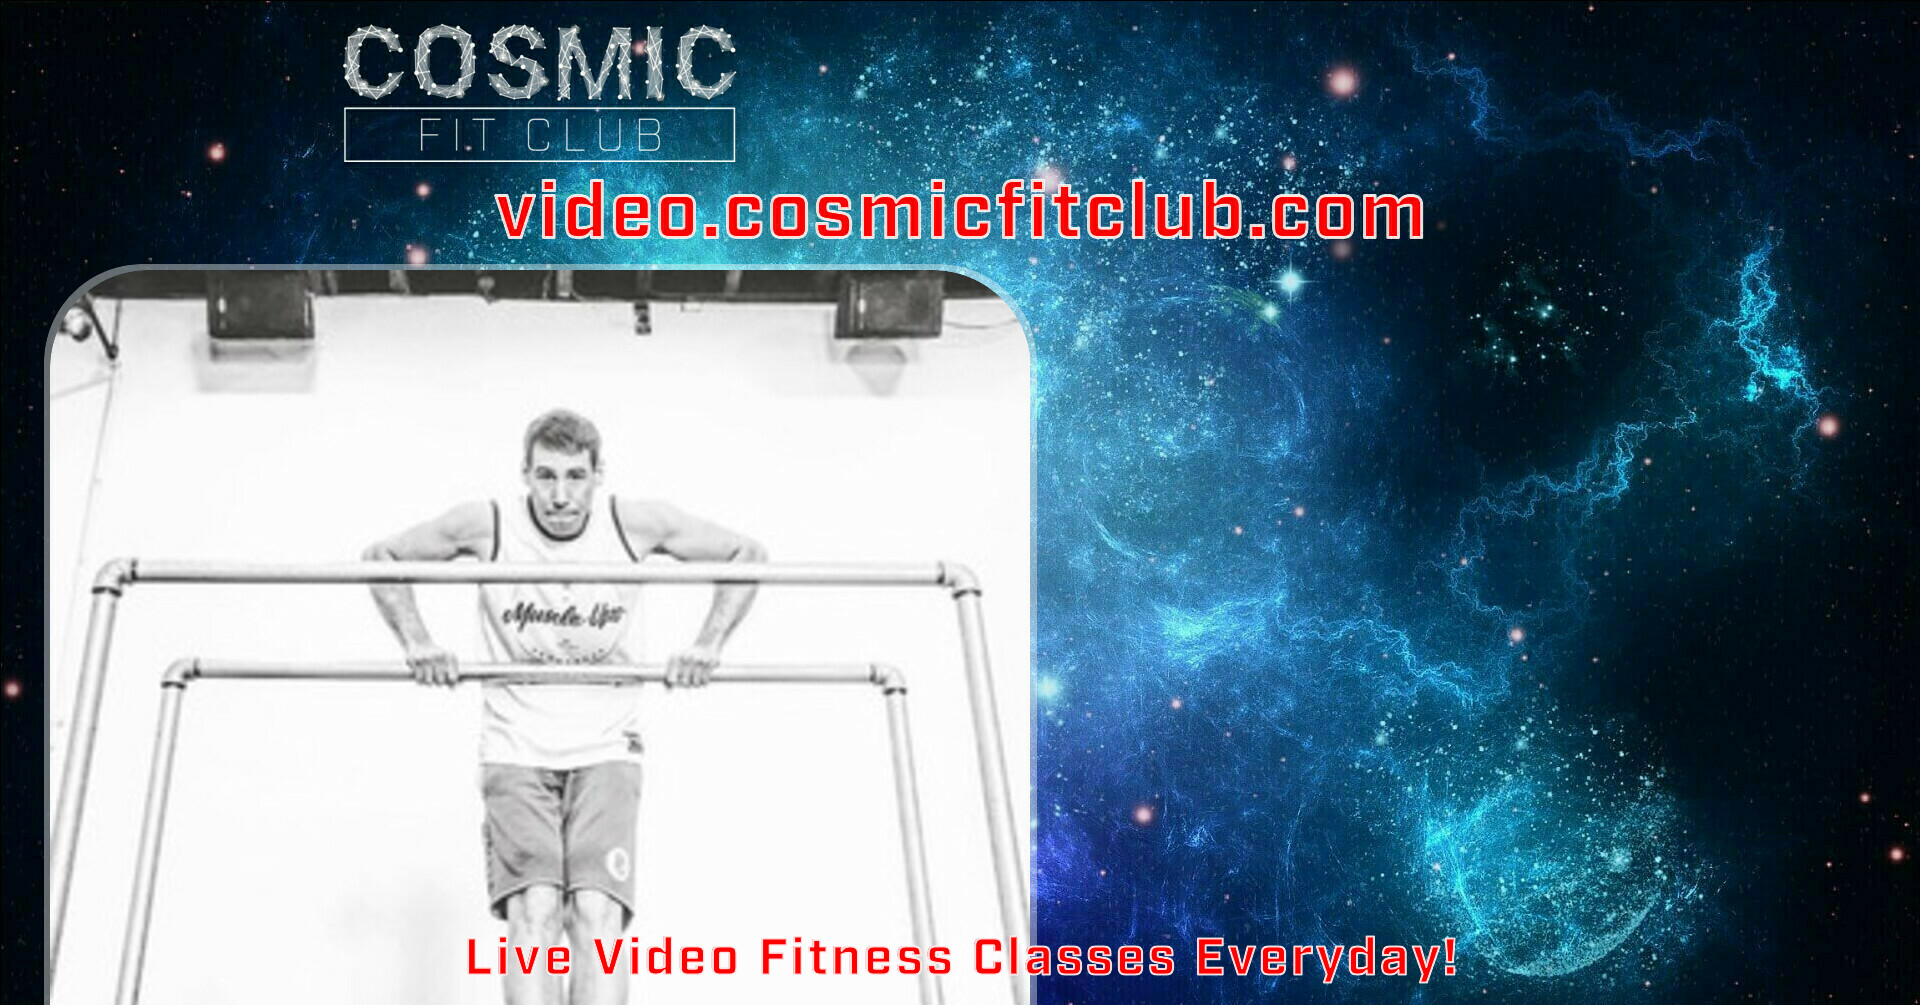
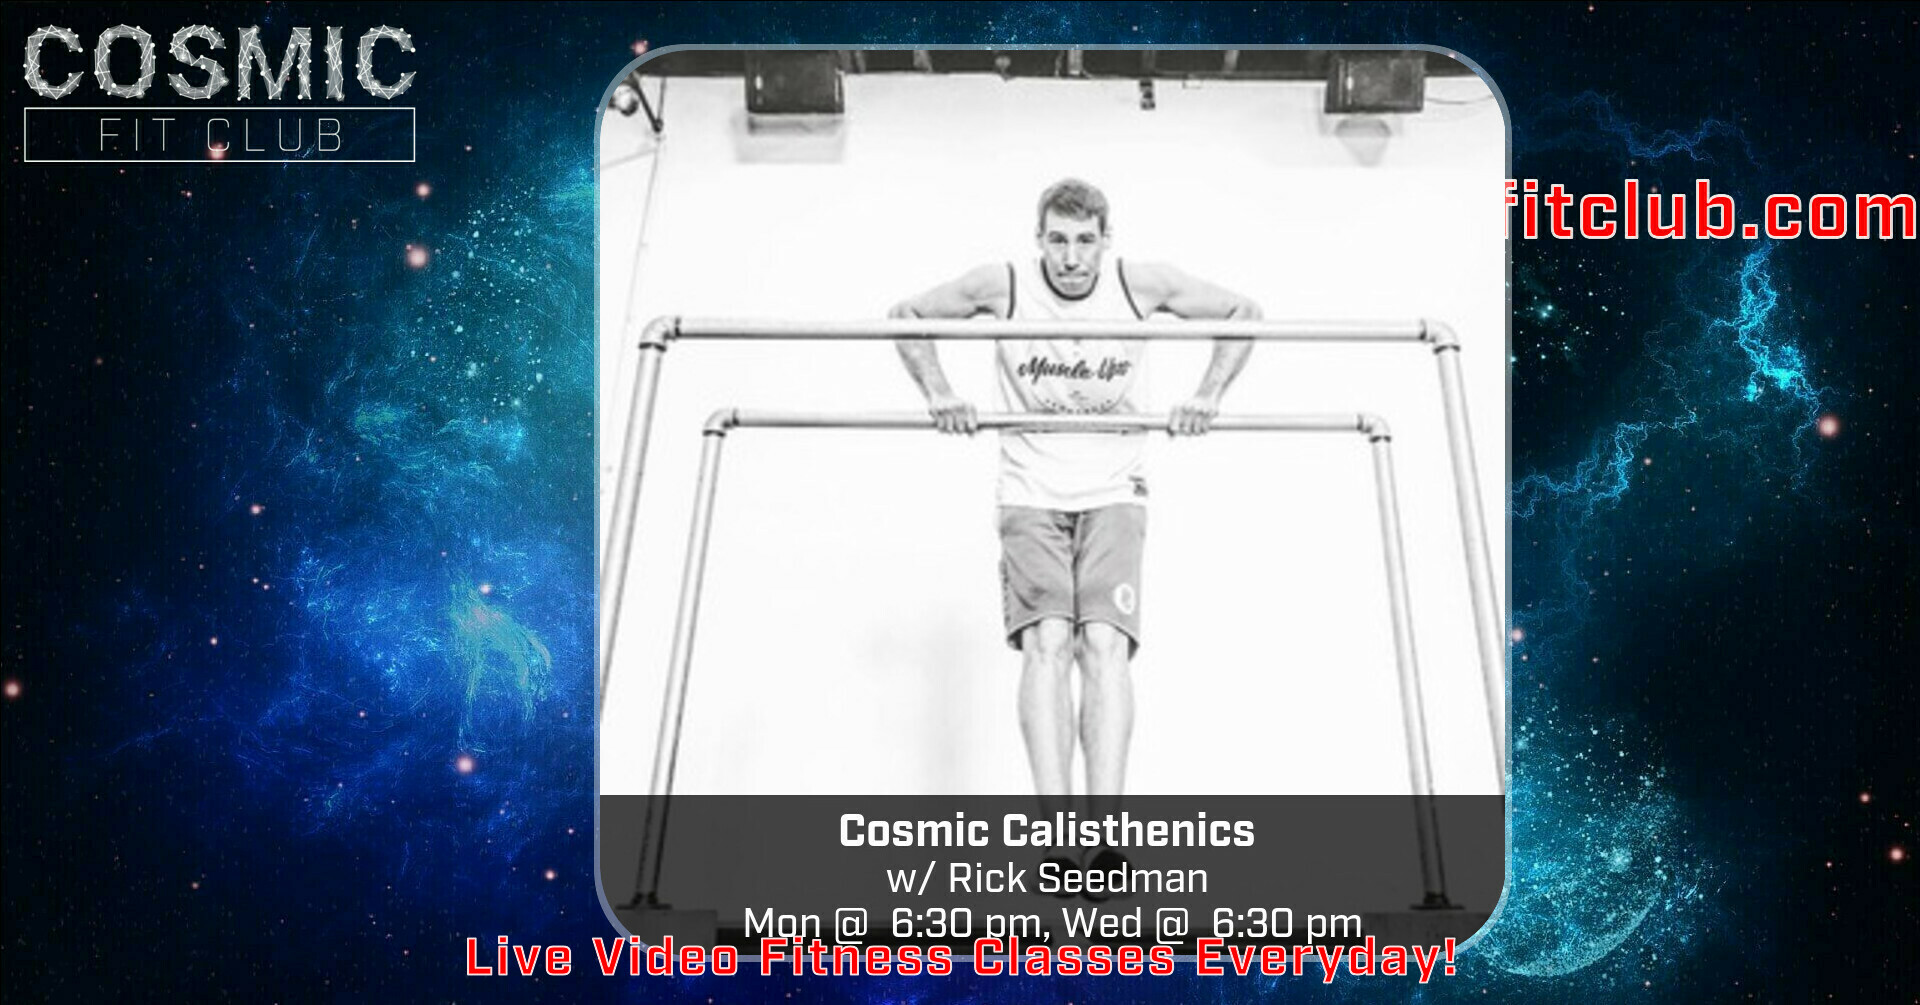
logout_jwt

diff --git a/printable/dailyPromo.rb b/printable/dailyPromo.rb
@@ -1,44 +1,119 @@
 module DailyPromo
-  def DailyPromo::generate_all()
-    
-    grouped = ClassdefSchedule.all.group_by { |x| { :class=> x.classdef.name, :teacher=>x.teachers.map(&:name).join(', ') } }
-    list = grouped.map { |k,v| { :teacher => k[:teacher], :img => v[0].image_url, :lines => [k[:class], "w/ " + k[:teacher], v.map(&:simple_meeting_time_description).join(", ")] } } 
-    list.each{ |x| SchedulePromo::generate4x5(x).save("vidpromos/schedules/#{x[:lines][0]} - #{x[:teacher]}.jpg") }
+  def DailyPromo::generate_all(date)
+    date ||= Date.today
+    list = Scheduling::flat_list(date,date+1)
+    DailyPromo::generate4x5(date,list).save("vidpromos/daily/#{date.to_s}.jpg")
   end
 
-  def DailyPromo::generate4x5(x)
+  def DailyPromo::build_list_header(x_offset,y_offset,width,height,margin,title)
+    [ 
+      { :type => 'box',
+        :x_offset => x_offset + margin,
+        :y_offset => y_offset + margin,
+        :stroke => "#E0E0E0",
+        :width => width - (2*margin),
+        :height => height - (2*margin),
+        :color  => "#00000099",
+        :radius => 10
+      },
+      { :type => 'text_header',
+        :gravity => 'North',
+        :ptsize =>  height/11,
+        :x_offset => 0,
+        :y_offset => y_offset + (height/11)*4,
+        :color =>"#E0E0E0",
+        :text     => title
+      }
+    ]    
+  end
+
+  def DailyPromo::build_list_items(x_offset,y_offset,width,height,margin,list)
+    usableHeight = (height - margin*list.count+1)
+    itemHeight = height
+    list.each_with_index.map { |x,i| [
+      { :type => "box",
+        :x_offset => x_offset + margin,
+        :y_offset => y_offset + margin + ( i * (itemHeight + margin) ),
+        :width    => width - (margin * 2),
+        :height   => itemHeight,
+        :color    => '#00000099',
+        :stroke => "#E0E0E0",
+        :radius   => 10
+      },
+      { :type => 'image_bubble',
+        :x_offset => x_offset + (2*margin),
+        :y_offset => y_offset + (2*margin) + ( i * (itemHeight + margin) ),
+        :width    => itemHeight - (2*margin),
+        :height   => itemHeight - (2*margin),
+        :margin   => 3,
+        :img      => x[:thumb_url],
+        :lines    => [],
+        :geometry => ""
+      },
+      { :type => 'paragraph',
+        :font => "shared/fonts/webfonts/329F99_3_0.ttf",
+        :x_offset => x_offset + (2*margin) + (itemHeight - (2*margin)) + margin,
+        :y_offset => y_offset + (2*margin) + ( i * (itemHeight + margin) ) + itemHeight/6,
+        :ptsize   => itemHeight/20,
+        :spacing  => 12,
+        :color    => "#E0E0E0",
+        :text     => "#{x[:starttime].strftime("%l:%M %p")}\r\n#{x[:title]}\r\nw/ #{x[:instructors].map do |x| x[:name] end.join(', ')}"
+      }
+    ]}.flatten
+  end
+
+  def DailyPromo::generate4x5(date,list)
     image = MiniMagick::Image.open("printable/assets/4x5_bg.jpg")
     image.draw_elements([
+      { :type => 'box', 
+        :width => 1080,
+        :height => 350,
+        :gravity => 'south',
+        :color => '#00000055',
+        :stroke => "#E0E0E0",
+      },
       { :type     => 'logo',
-        :x_offset => 340,
+        :x_offset => 240,
         :y_offset => 20,
-        :width    => 400
+        :width    => 600
       },
       { :type     => "highlight_text",
         :x_offset => 0,
-        :y_offset => 175,
-        :ptsize   => 18.5,
+        :y_offset => 260,
+        :ptsize   => 17,
+        :kerning  => 8,
         :gravity  => "North",
+        :strokewidth => 2,
+        :stroke   => "#FFFFFFDD",
+        :fill    => "#DD0000",
         :text     => "video.cosmicfitclub.com"
       },
-      { :type     => 'image_bubble',
-        :x_offset => 50,
-        :y_offset => 270,
-        :width    => 980,
-        :height   => 980,
-        :margin   => 6,
-        :ptscale  => 0.05,
-        :ptscale2 => 0.9,
-        :img      => x[:img],
-        :lines    => x[:lines]
+      { :type => 'box', 
+        :width => 1080,
+        :height => 100,
+        :gravity => 'south',
+        :y_offset => 1260,
+        :color => '#00000055',
+        :stroke => "#E0E0E0",
       },
       { :type     => "highlight_text",
         :x_offset => 0,
         :y_offset => 20,
-        :ptsize   => 12.5,
+        :ptsize   => 12,
+        :strokewidth => 2,
+        :stroke   => "#FFFFFFDD",
+        :fill    => "#DD0000",
         :gravity  => "South",
+        :kerning  => 5,
         :text     => "Live Video Fitness Classes Everyday!"
       }
     ])
+    offset = case list.count
+    when 1; 565 
+    when 2; 465
+    when 3; 365
+    end
+    image.draw_elements(DailyPromo::build_list_header(0,offset,1080,130,30,date.strftime("%A %b %d %Y")))
+    image.draw_elements(DailyPromo::build_list_items(0,offset+100,1080,220,30,list))
   end
 end

diff --git a/printable/schedulePromo.rb b/printable/schedulePromo.rb
@@ -4,6 +4,7 @@ module SchedulePromo
     list = grouped.map { |k,v| { :teacher => k[:teacher], :img => v[0].image_url, :lines => [k[:class], "w/ " + k[:teacher], v.map(&:simple_meeting_time_description).join(", ")] } } 
     list.each{ |x| SchedulePromo::generate4x5(x).save("vidpromos/schedules/#{x[:lines][0]} - #{x[:teacher]}.jpg") }
     list.each{ |x| SchedulePromo::generate_fbevent(x).save("vidpromos/fbevent/#{x[:lines][0]} - #{x[:teacher]}.jpg") }
+    SchedulePromo::generate_allinone(list)
   end
 
   def SchedulePromo::generateall_fbevent()
@@ -12,31 +13,92 @@ module SchedulePromo
     list.each{ |x| SchedulePromo::generate_fbevent(x).save("vidpromos/fbevent/#{x[:lines][0]} - #{x[:teacher]}.jpg") }
   end
 
+  def SchedulePromo::generate_allinone()
+    grouped = ClassdefSchedule.all.group_by { |x| { :class=> x.classdef.name, :teacher=>x.teachers.map(&:name).join(', ') } }
+    list = grouped.map { |k,v| { :teacher => k[:teacher], :img => v[0].image_url, :lines => [k[:class], "w/ " + k[:teacher], v.map(&:simple_meeting_time_description).join(", ")] } } 
+    image = MiniMagick::Image.open("printable/assets/4x5_bg.jpg")
+    image.draw_elements([
+      { :type => 'box', 
+        :width => 1080,
+        :height => 100,
+        :gravity => 'north',
+        :color => '#00000055',
+        :stroke => "#E0E0E0",
+      },
+      { :type     => "highlight_text",
+        :x_offset => 0,
+        :y_offset => 20,
+        :ptsize   => 16.5,
+        :kerning  => 5,
+        :gravity  => "North",
+        :text     => "video.cosmicfitclub.com"
+      },
+      { :type     => 'img_array',
+        :x_offset => 0,
+        :y_offset => 150,
+        :width    => 1080,
+        :height   => 1080,
+        :margin   => 20,
+        :rowsize  => 4,
+        :ptscale  => 0.058,
+        :ptscale2 => 1,
+        :images   => [{:img=>'printable/assets/logo_tile.jpg'}] + list.concat([{:img=> 'printable/assets/cat1.jpg', :lines=>['Coffee']},{:img=> 'printable/assets/cat2.jpg', :lines=>['Donut']},])
+      },
+      { :type => 'box', 
+        :width => 1080,
+        :height => 100,
+        :gravity => 'south',
+        :y_offset => 1260,
+        :color => '#00000055',
+        :stroke => "#E0E0E0",
+      },
+      { :type     => "highlight_text",
+        :x_offset => 0,
+        :y_offset => 20,
+        :ptsize   => 12.5,
+        :gravity  => "South",
+        :text     => "Live Video Fitness Classes Everyday!"
+      }
+    ])
+  end
+
   def SchedulePromo::generate4x5(x)
     image = MiniMagick::Image.open("printable/assets/4x5_bg.jpg")
     image.draw_elements([
       { :type     => 'logo',
-        :x_offset => 640,
-        :y_offset => 50,
+        :x_offset => 320,
+        :y_offset => 20,
         :width    => 400
       },
       { :type     => "highlight_text",
         :x_offset => 0,
         :y_offset => 175,
-        :ptsize   => 18.5,
-        :gravity  => "Northeast",
+        :ptsize   => 16,
+        :strokewidth => 1,
+        :kerning  => 5,
+        :gravity  => "North",
+        :fill     => "#E0E0E0",
+        :stroke   => "#B0B0B0",
         :text     => "video.cosmicfitclub.com"
       },
       { :type     => 'image_bubble',
         :x_offset => 50,
-        :y_offset => 50,
-        :width    => 905,
-        :height   => 905,
+        :y_offset => 260,
+        :width    => 975,
+        :height   => 975,
         :margin   => 5,
         :ptscale  => 0.05,
         :ptscale2 => 0.9,
         :img      => x[:img],
         :lines    => x[:lines]
+      },
+      { :type => 'box', 
+        :width => 1080,
+        :height => 100,
+        :gravity => 'south',
+        :y_offset => 1260,
+        :color => '#00000055',
+        :stroke => "#E0E0E0",
       },
       { :type     => "highlight_text",
         :x_offset => 0,
@@ -52,7 +114,7 @@ module SchedulePromo
     image = MiniMagick::Image.open("printable/assets/fb_event_bg.jpg")
     image.draw_elements([
       { :type     => 'logo',
-        :x_offset => 340,
+        :x_offset => 20,
         :y_offset => 20,
         :width    => 400
       },
@@ -60,14 +122,14 @@ module SchedulePromo
         :x_offset => 0,
         :y_offset => 175,
         :ptsize   => 18.5,
-        :gravity  => "North",
+        :gravity  => "Northeast",
         :text     => "video.cosmicfitclub.com"
       },
       { :type     => 'image_bubble',
-        :x_offset => 50,
-        :y_offset => 270,
-        :width    => 980,
-        :height   => 980,
+        :x_offset => 600,
+        :y_offset => 50,
+        :width    => 905,
+        :height   => 905,
         :margin   => 6,
         :ptscale  => 0.05,
         :ptscale2 => 0.9,

diff --git a/printable/lib/MiniMagickExtensions::Image::Bubbles.rb b/printable/lib/MiniMagickExtensions::Image::Bubbles.rb
@@ -29,11 +29,12 @@ module MiniMagickExtensions
       end
 
       def draw_bubble(path,lines,geometry,opts={})
+        return if path.nil?
         geo = /(?<width>\d+)x(?<height>\d+)\+(?<x>\d+)\+(?<y>\d+)/.match(geometry)
-        opts[:width]    ||= geo[:width]
-        opts[:height]   ||= geo[:height]
-        opts[:x_offset] ||= geo[:x]
-        opts[:y_offset] ||= geo[:y]
+        opts[:width]    ||= geo[:width].to_i
+        opts[:height]   ||= geo[:height].to_i
+        opts[:x_offset] ||= geo[:x].to_i
+        opts[:y_offset] ||= geo[:y].to_i
         opts[:margin]   ||= opts[:width] * 0.01
         @img = MiniMagick::Image.open(path)
         @img.resize_with_crop(opts[:width].to_i,opts[:height].to_i,{ :geometry => :south })
@@ -56,7 +57,6 @@ module MiniMagickExtensions
         opts[:color]    ||= Values::WhiteGlow
         opts[:margin]   ||= opts[:width] * 0.01
         opts[:radius]   ||= opts[:width] / 10
-        p opts[:radius]
         self.draw_box({
           :x_offset => opts[:x_offset] - opts[:margin], 
           :y_offset => opts[:y_offset] - opts[:margin], 

diff --git a/printable/lib/MiniMagickExtensions::Image::Builder.rb b/printable/lib/MiniMagickExtensions::Image::Builder.rb
@@ -42,7 +42,7 @@ module MiniMagickExtensions
               y_offset = el[:margin_y].to_i + ( el[:margin_y].to_i + box_height ) * ( i / el[:rowsize] ) + el[:y_offset]
               geometry = "#{box_width}x#{box_height}+#{x_offset}+#{y_offset}"
               p geometry
-              self.draw_bubble( x[:img], x[:lines], geometry, { :ptscale => el[:ptscale], :ptscale2 => el[:ptscale2] } )
+              self.draw_bubble( x[:img], x[:lines], geometry, { :ptscale => el[:ptscale], :ptscale2 => el[:ptscale2], :margin => nil } )
             end
           when "image_bubble"
             self.draw_bubble( el[:img], el[:lines], el[:geometry], el)

diff --git a/printable/lib/MiniMagickExtensions::Image::Text.rb b/printable/lib/MiniMagickExtensions::Image::Text.rb
@@ -11,6 +11,7 @@ module MiniMagickExtensions
           i.pointsize "#{pointsize}"
           i.font "shared/fonts/webfonts/329F99_3_0.ttf"
           i.gravity "#{gravity}"
+          #i.kerning opts[:kerning] || 0
           i.draw "text #{x},#{y} \"#{text}\""
         end
       end
@@ -35,7 +36,7 @@ module MiniMagickExtensions
           i.gravity opts[:gravity] || 'None'
           i.stroke  opts[:stroke]  || "\#FFFFFFDD"
           i.strokewidth opts[:strokewidth] || pointsize*0.15
-          i.kerning 3
+          i.kerning opts[:kerning] || 3
           i.draw "text #{x},#{y} \"#{text}\""
         end
       end

diff --git a/printable/lib/MiniMagickExtensions::Image::Elements.rb b/printable/lib/MiniMagickExtensions::Image::Elements.rb
@@ -13,6 +13,7 @@ module MiniMagickExtensions
         opts[:x_offset] ||= 0
         opts[:y_offset] ||= 0
         self.combine_options do |i|	
+          i.stroke opts[:stroke] if opts[:stroke]
           i.fill opts[:color]
           i.draw "roundRectangle #{opts[:x_offset].to_i},#{opts[:y_offset].to_i} #{opts[:x_offset].to_i + opts[:width].to_i},#{opts[:y_offset].to_i + opts[:height].to_i} #{opts[:x_radius]},#{opts[:y_radius]}"	
         end	

diff --git a/auth/auth.rb b/auth/auth.rb
@@ -80,6 +80,12 @@ class CFCAuth < Sinatra::Base
     JSON.pretty_generate JWT.decode(jwt,ENV['JWT_SECRET'],true,{ algorithm: 'HS256'})
   end
 
+  post '/logout_jwt' do
+    session[:user_id] = nil
+    session[:customer_id] = nil
+    response.delete_cookie('cosmicjwt')
+  end
+
   get '/test_jwt' do
     jwt = request.cookies['cosmicjwt'] or halt(401)
     JSON.pretty_generate JWT.decode(jwt,ENV['JWT_SECRET'],true,{ algorithm: 'HS256'})

diff --git a/models/Schedule/sorting/videoclass_sorting.rb b/models/Schedule/sorting/videoclass_sorting.rb
@@ -18,5 +18,13 @@ module Scheduling
       :by_day          => items.group_by{ |x| x[:day] }
     }
   end
+
+  def Scheduling::flat_list(from,to)
+    classes = get_classitems_between(from,to)
+    events  = get_eventsessions_between(from,to)
+    rentals = get_rentals_between(from,to)
+    items   = events + classes + rentals
+    items.sort_by { |x| x[:starttime] }
+  end
   
 end
